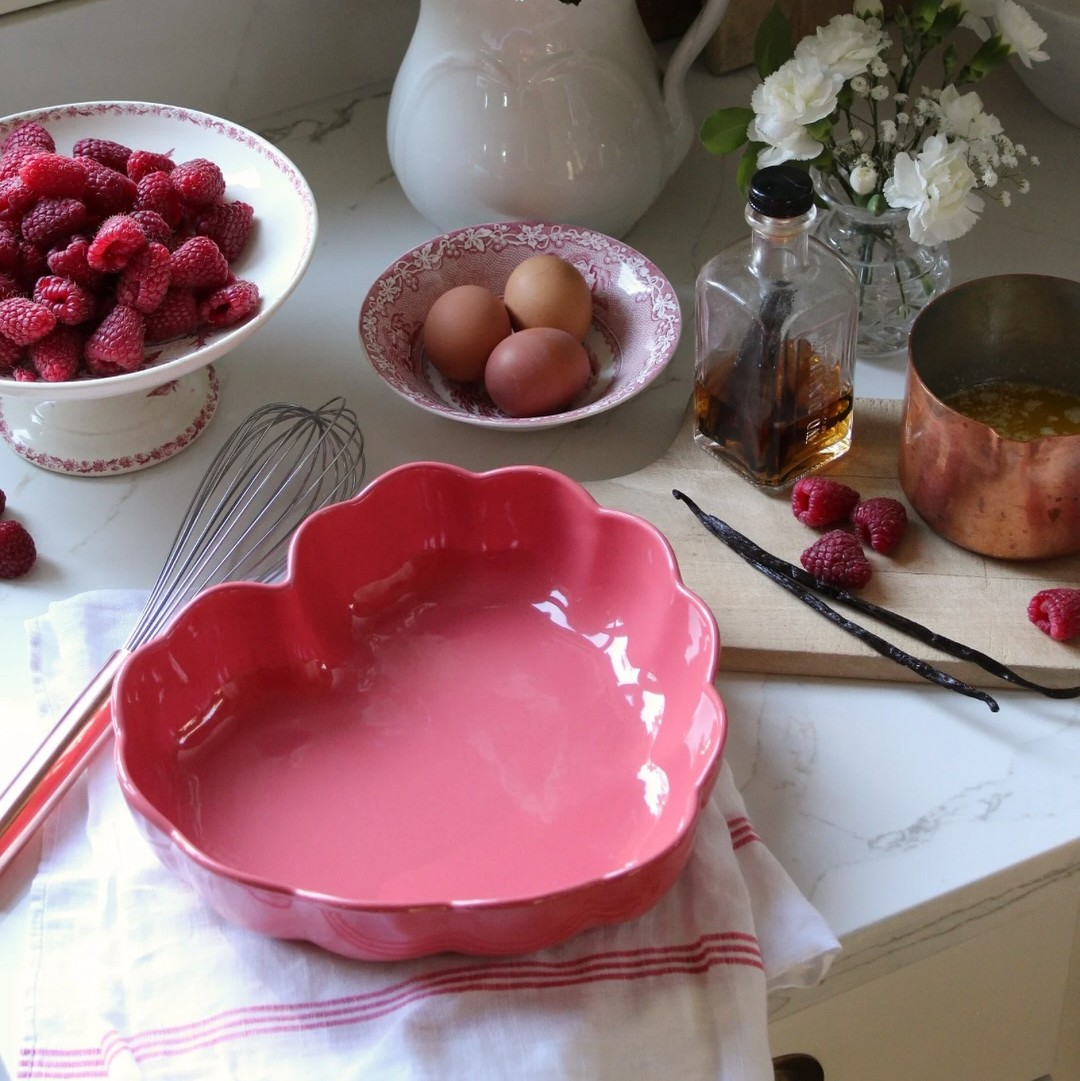
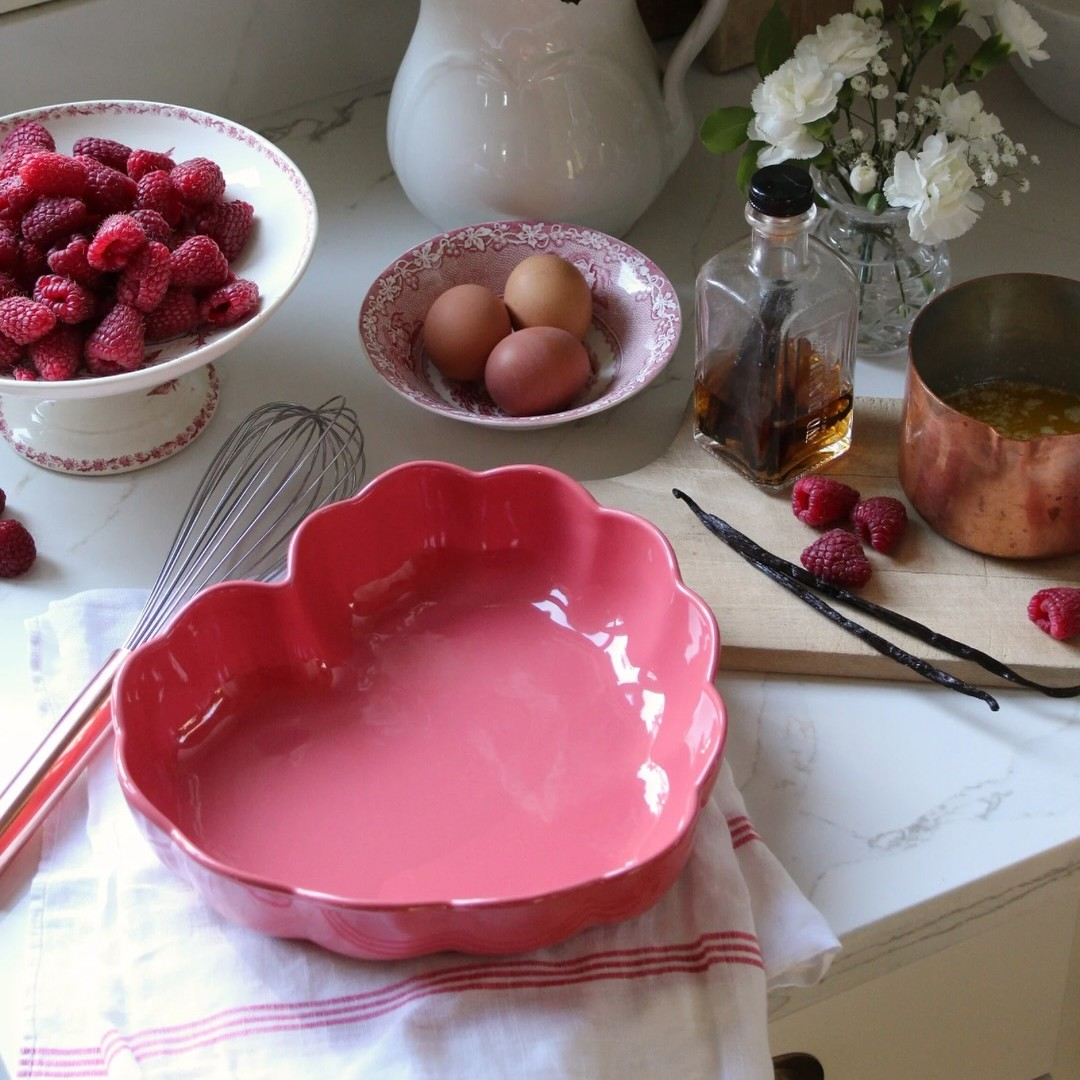
details changed and new created and updated

diff --git a/app/bbq/page.module.css b/app/bbq/page.module.css
@@ -44,7 +44,7 @@
 .grid {
   display: grid;
   grid-template-columns: repeat(3, 1fr);
-  gap: 80px;
+  gap: 20px;
   width: 100%;
   padding: 20px 400px;
   box-sizing: border-box;
@@ -122,7 +122,8 @@
   }
 
   .grid {
-    padding: 20px 20px;
+    padding: 10px 20px;
+    gap: 10px;
   }
 
   .product_title {

diff --git a/components/dondeComprar.module.css b/components/dondeComprar.module.css
@@ -7,7 +7,7 @@
   font-size: 2.5rem;
   font-weight: bold;
   color: #333;
-  margin-bottom: 2rem;
+  margin-bottom: 4rem;
 }
 
 /* GRID 2 COLUMNAS */
